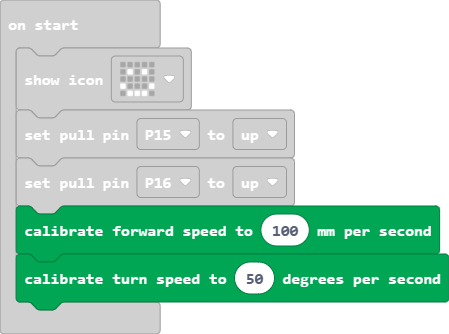
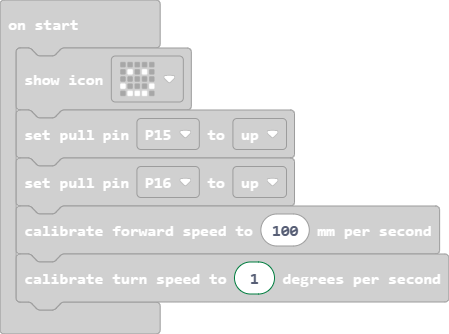
Update main.blocks, main.ts

Changed region(s): [[0.0312, 0.5988, 1.0, 0.9281]]

diff --git a/main.ts b/main.ts
@@ -7,7 +7,7 @@ basic.showIcon(IconNames.Happy)
 pins.setPull(DigitalPin.P15, PinPullMode.PullUp)
 pins.setPull(DigitalPin.P16, PinPullMode.PullUp)
 kitronik_servo_lite.setDistancePerSecond(100)
-kitronik_servo_lite.setDegreesPerSecond(50)
+kitronik_servo_lite.setDegreesPerSecond(1)
 basic.forever(function () {
     rightDetector = pins.digitalReadPin(DigitalPin.P15)
     leftDetector = pins.digitalReadPin(DigitalPin.P16)
